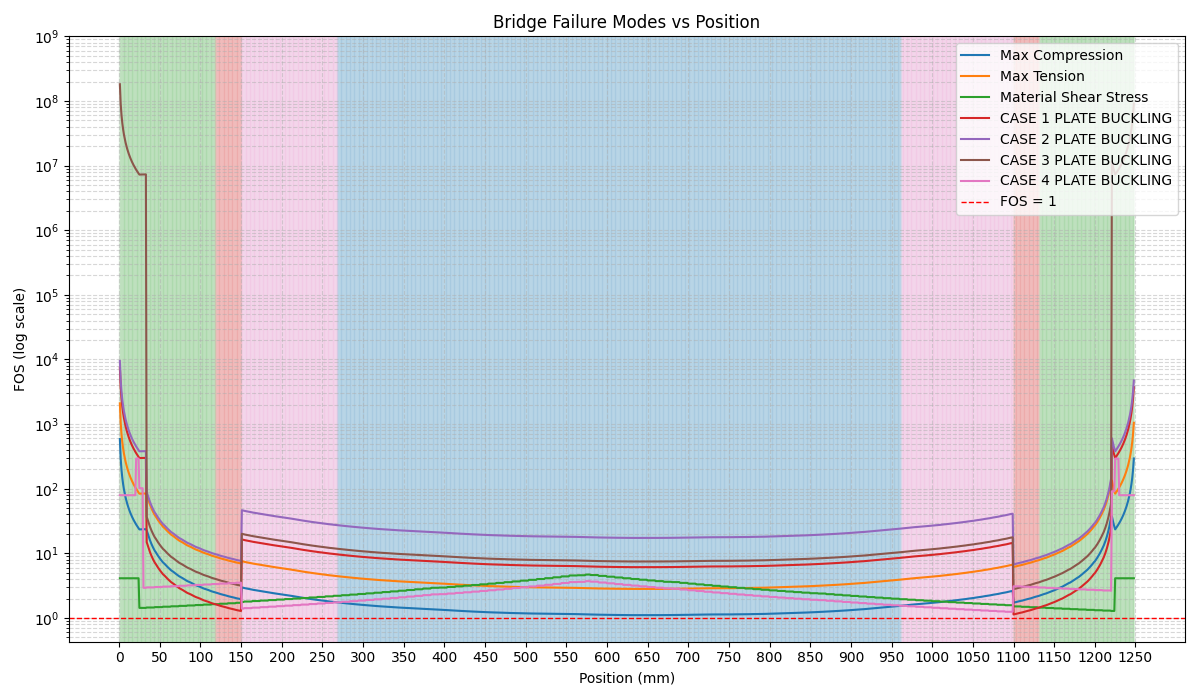
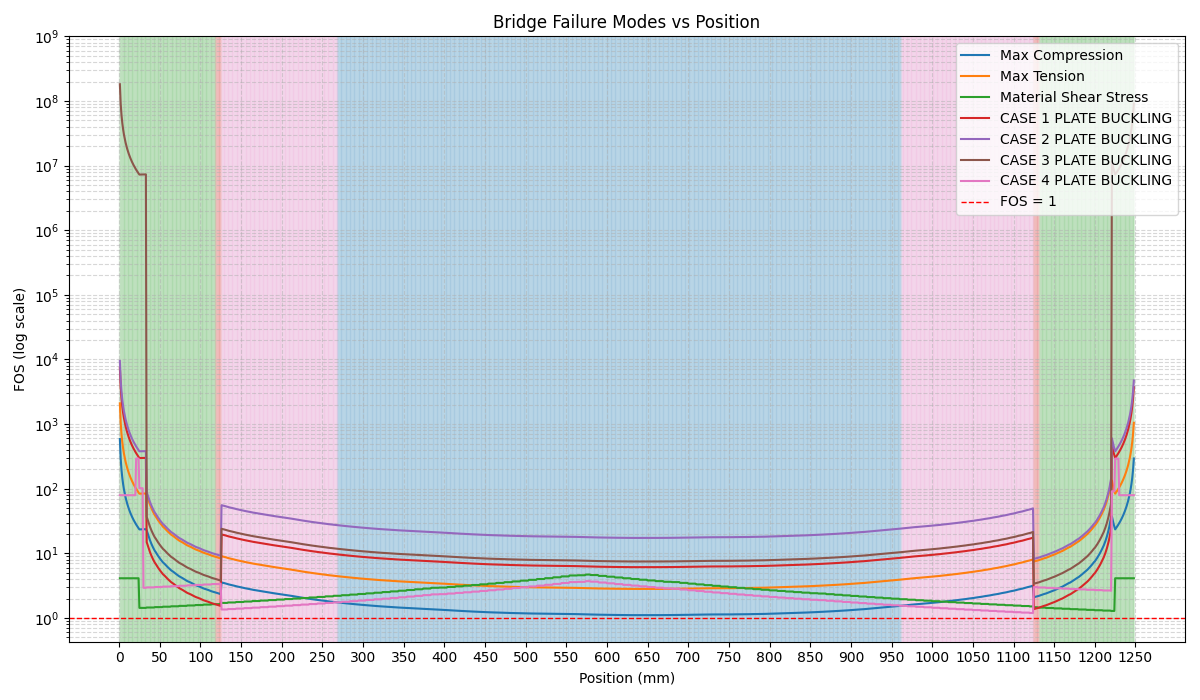
Your new commit message

Changed region(s): [[0.185, 0.03, 0.2158, 0.93], [0.8325, 0.3, 0.8633, 0.93], [0.8325, 0.03, 0.8633, 0.06]]

diff --git a/BMD.py b/BMD.py
@@ -13,12 +13,13 @@ m3 = 304 # last car
 spacing = [0, -176, -340, -516, -680, -856]
 
 #dimensions of bridge
+sample_frequency = 5
 length = 1250
 
 #returns tuple of tuples for both reactions (A on left, B on right), found as a sum of moments
 #returns array of tuples (position, force)
 def find_reactions(pos):
-    global m1, m2, length
+    global m1, m2, m3
     out = {}
     #create array of train forces
 
@@ -30,12 +31,15 @@ def find_reactions(pos):
         elif (i < 4):
             out[pos + spacing[i]] = - m2 / 2
             continue
-        else :
+        else:
             out[pos + spacing[i]] = -m3 / 2
             continue
 
+    if (pos == 1000):
+        print (out.keys())
     b = 0
     for i in out.keys():
+        if i == 25 or i == 1225: continue
         b += (i - 25) * out[i]
     
     b /= -1200
@@ -73,19 +77,23 @@ def bmd(pos):
 
 def BME():
     env = bmd(0)
-    for i in range(0, 1251 + 856, 10):
+    for i in range(0, 1251 + 856, sample_frequency):
         #print ("WORKING")
         bmdd = bmd(i)
-        env = [m if abs(m) > abs(e) else e for m, e in zip(env, bmdd)]
+        for i in range(len(env)):
+            env[i] = max(env[i], bmdd[i])
+       # env = [m if abs(m) > abs(e) else e for m, e in zip(env, bmdd)]
         #env = maxl(env, bmdd)
     print ("DONE")
     return env
 
 def SFE():
     env = sfd(find_reactions(0))
-    for i in range(0, 1251 + 856, 10):
+    for i in range(0, 1251 + 856, sample_frequency):
         sfdd = sfd(find_reactions(i))
-        env = [abs(m) if abs(m) > abs(e) else e for m, e, in zip(env, sfdd)]
+        for i in range(len(env)):
+            env[i] = max(env[i], sfdd[i])
+        #env = [abs(m) if abs(m) > abs(e) else e for m, e, in zip(env, sfdd)]
     
     return env
 
@@ -94,22 +102,29 @@ def min_max(min, max, abss):
 
 def min_max_sfe():
 
-    min = sfd(find_reactions(0))
-    max = sfd(find_reactions(0))
-    for i in range(0, 1251 + 856, 10):
+    minout = sfd(find_reactions(0))
+    maxout = sfd(find_reactions(0))
+    #here is we put 1 instaed of 10, it gives something completely wrong for some reason
+    for i in range(0, 1251 + 856, sample_frequency):
         sfdd = sfd(find_reactions(i))
-        min = [m if m < e else e for m, e in zip(min, sfdd)]
-        max = [m if m > e else e for m, e in zip(max, sfdd)]
-    return min, max
+        for i in range(len(minout)):
+            minout[i] = min(minout[i], sfdd[i])
+            maxout[i] = max(maxout[i], sfdd[i])
+        #min = [m if m < e else e for m, e in zip(min, sfdd)]
+       # max = [m if m > e else e for m, e in zip(max, sfdd)]
+    return minout, maxout
 
 def min_max_bme():
-    min = bmd(0)
-    max = bmd(0)
-    for i in range(0, 1251 + 856, 10):
+    minout = bmd(0)
+    maxout = bmd(0)
+    for i in range(0, 1251 + 856, sample_frequency):
         bmdd = bmd(i)
-        min = [m if m < e else e for m, e in zip(min, bmdd)]
-        max = [m if m > e else e for m, e in zip(max, bmdd)]
-    return min, max
+        for i in range(len(minout)):
+            minout[i] = min(minout[i], bmdd[i])
+            maxout[i] = max(maxout[i], bmdd[i])
+        #min = [m if m < e else e for m, e in zip(min, bmdd)]
+        #max = [m if m > e else e for m, e in zip(max, bmdd)]
+    return minout, maxout
 
 
 def maxl(a, b):

diff --git a/plot.py b/plot.py
@@ -92,7 +92,7 @@ def plot(data_rows, plotting_fos):
 
         plt.xticks(np.arange(0, max(x)+50, 100))
         plt.tight_layout()
-        return  # exit early since already plotted
+#        return  # exit early since already plotted
 
     # --- Common plotting for FOS case ---
     plt.xlabel(x_label)
